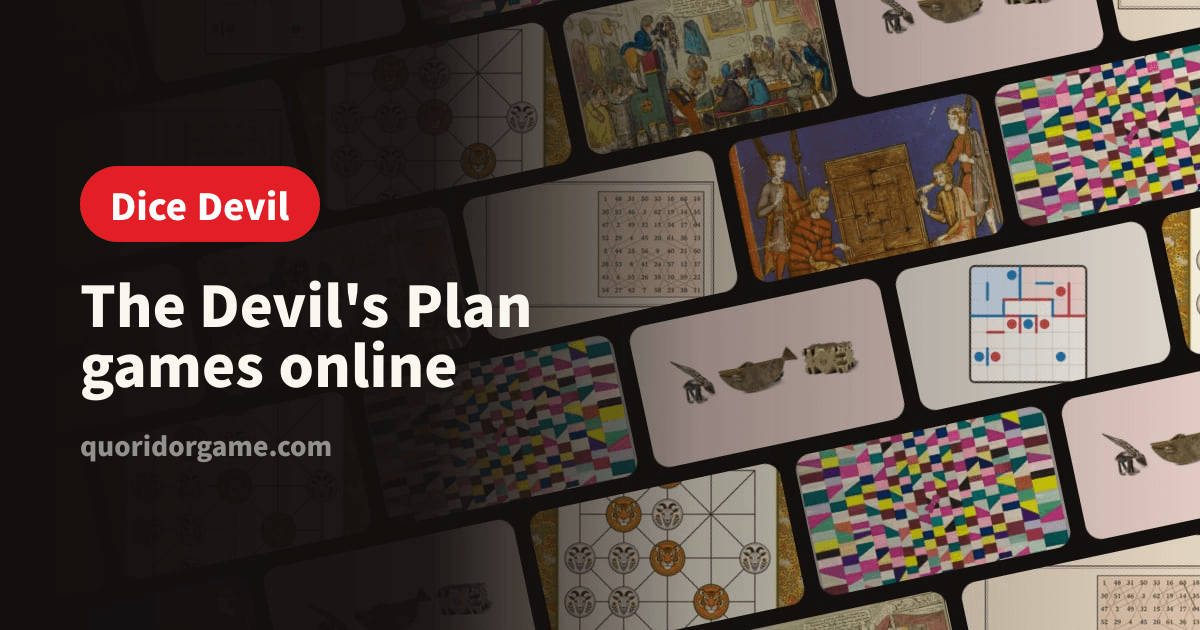
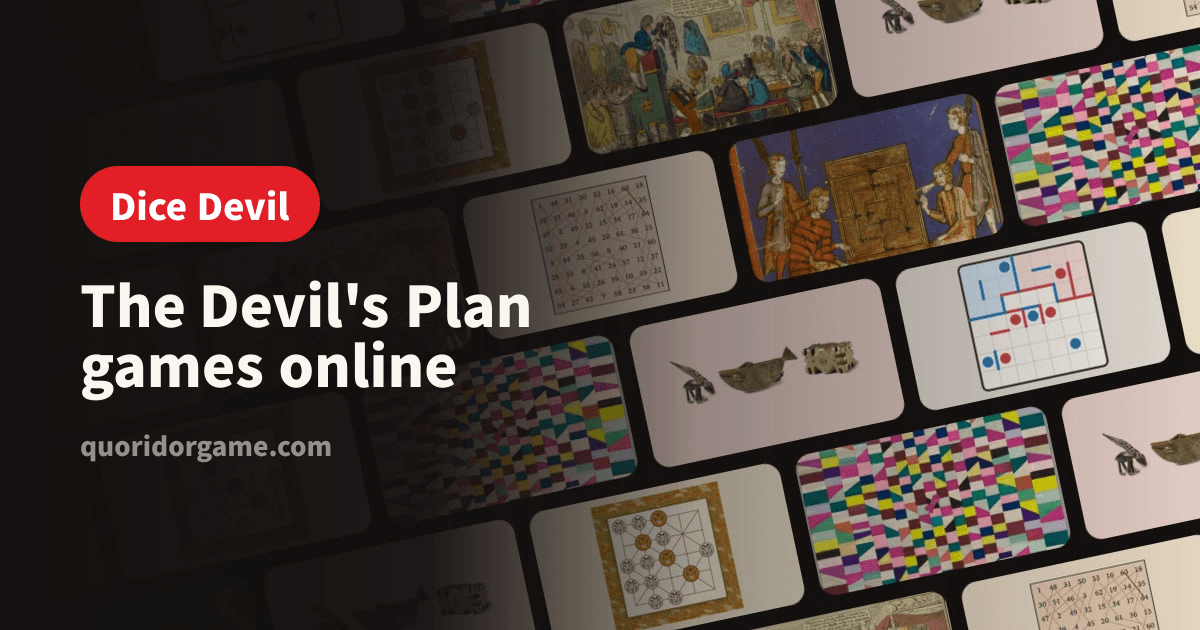
fix(platform): 分享圖拼貼的棋盤改成擺正、置中
10/25 Zach：拼貼直接拿平台小卡片的圖，那幾張是要配字的（棋盤斜放、偏右），
放進拼貼就是歪的、靠邊的。Wall Go、尼泊爾虎棋、騎士巡遊改成擺正的盤面放在卡片正中間，
底色用那款自己分享圖的底色。上一版是把盤面反向轉回牆的斜度，Zach 要的不是那個。

Claude-Session: https://claude.ai/code/session_01EqQDVyvUi4wL1aNNbw3Nm1

diff --git a/docs/handoff/README.md b/docs/handoff/README.md
@@ -80,7 +80,7 @@ CLAUDE.md 用 `@~/Desktop/projects/sites-data/protocol.md` 引用分工規則，
 3. **泰文的遊戲名**（10/25 網路查證：泰國媒體寫節目名一律用英文 The Devil's Plan，遊戲名沒有找到通行的泰文寫法；`ประมูลเวลา` 這類自己翻的沒有人在用。Netflix 有泰語配音，正式泰文名要在泰國區看才知道。搜尋可以補的泰文詞：`เดอะเดวิลส์แพลน`、傳統遊戲名 `หมากขุม`（泰國本土的播棋）、`แมนคาลา`。還是等 Zach 選 A／B）：泰國那邊講這些遊戲都用英文名，平台卡片維持英文。但五款遊戲裡的泰文標題是當初自己翻的（例如時間拍賣 ประมูลเวลา），沒人這樣叫，跟卡片也對不上。A（推薦）改成「英文名＋泰文說明副名」，跟尼泊爾虎棋泰文頁一樣；B 保留泰文標題，但要找泰文母語者確認。
 4. **日文中等信心的三個名字**（10/25 網路查證：現在用的寫法都跟日本觀眾的部落格、note 一致，意譯派的「均衡のマンカラ」「目隠し五目並べ」找不到實際用例，「時間オークション」只有一篇。節目名要同時打「悪魔の計略」與「デビルズプラン」兩個關鍵字。搜傳統遊戲的人會打 五目並べ、騎士巡回問題／騎士の巡歴、マンカラ。Netflix 字幕仍沒看到）：タイムオークション、バランスマンカラ、ブラインド五目並べ。日本粉絲另有照韓文意譯的寫法（時間オークション、均衡のマンカラ、目隠し五目並べ）。有 Netflix 日本帳號的話，看第 2 集與第 9、10 集的字幕就能確定。
 5. ✅ **「每一季一個目錄頁」10/25 做了**：`/season/1`、`/season/2`、`/season/3`（`app/views/SeasonView.tsx`），平台首頁每一季的標題連過去（多一個「看全部 ›」）。照播出順序排成格子、上方三顆切換各季、會被索引（標題與描述列出那一季的遊戲名），分享圖先共用平台那張。卡片抽成 `components/platform/GameCard.tsx` 兩邊共用。
-6. ✅ **平台分享圖的拼貼 10/25 決定都留著**，只把棋盤類（Wall Go、尼泊爾虎棋、騎士巡遊）擺正重新輸出：整面牆照舊斜 12°，這三張卡片裡的盤面反向轉回來、在圖上是正的（`scripts/og-art/collage.mjs` 的 `UPRIGHT`）。`DEG=0` 可以出整面牆都正的版本（`DEG=0 OUT=… node scripts/og-art/collage.mjs`）。
+6. ✅ **平台分享圖的拼貼 10/25 決定都留著**，只把棋盤類（Wall Go、尼泊爾虎棋、騎士巡遊）重做：拼貼原本直接拿平台小卡片的圖，那幾張是要配字的（棋盤斜放、偏右），放進拼貼就是歪的、靠邊的。改成擺正的盤面放在卡片正中間、底色用那款自己分享圖的底色（`scripts/og-art/collage.mjs` 的 `BOARDS`）。整面牆照舊斜 12°；`DEG=0` 可以出整面牆也擺正的版本。
 
 ## 6. 更早的待辦
 
